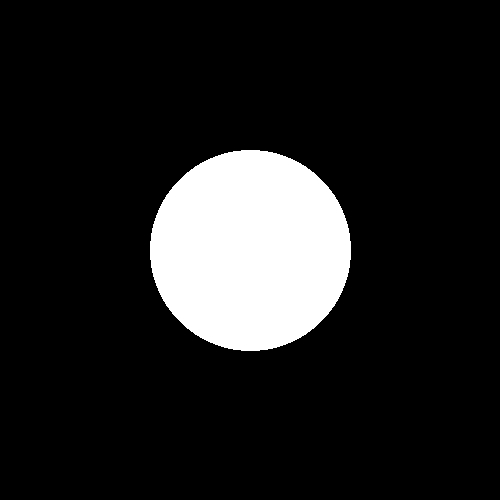
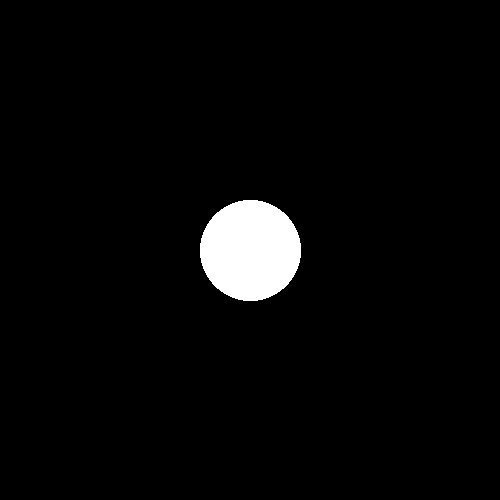
Implement menu_print and simulate functions in main

Changed region(s): [[0.3, 0.3, 0.72, 0.72]]

diff --git a/simulation.py b/simulation.py
@@ -1,32 +1,18 @@
-from PIL import (
-    Image,
-    ImageDraw
-)
+import numpy as np
 from objects import (
     OrbitalObject,
     CentralObject
 )
+from space import Space
 
-# to będzie symulacja
 
-
-class Space:
-    def __init__(self, size: int, central_object: CentralObject,
-                 orbital_objects: OrbitalObject = [], spaceName='unknown'):
-        self._size = size
-        self._central_object = central_object
-        self._orbital_objects = orbital_objects
-        self.spaceName = spaceName
-
-        newSpace = Image.new('RGB', (size, size), (0, 0, 0))
-        newSpace.save(f'{spaceName}.jpg')
-        with Image.open(f'{spaceName}.jpg') as space:
-            diameter = central_object.diameter()
-            position = (size / 2, size / 2)
-            draw = ImageDraw.Draw(space)
-            draw.circle(position, diameter, 'white')
-            space.save(f'{spaceName}.jpg', quality=100)
-            space.show()
-
-    def size(self):
-        return self._size
+class Simulation():
+    def __init__(self, space: Space, central_object: CentralObject,
+                 orbital_objects: OrbitalObject = []):
+        self.space = space
+        self.central_object = central_object
+        self.orbital_objects = orbital_objects
+        self.matrix = np.array(
+            [[False for column in range(50)] for row in range(50)],
+            dtype=bool
+        )

diff --git a/space.py b/space.py
@@ -1,0 +1,31 @@
+from PIL import (
+    Image,
+    ImageDraw
+)
+from objects import (
+    OrbitalObject,
+    CentralObject
+)
+
+
+class Space:
+    def __init__(self, size: int, central_object: CentralObject,
+                 orbital_objects: OrbitalObject = [], space_name='unknown'):
+        self._size = size
+        self._central_object = central_object
+        self._orbital_objects = orbital_objects
+        self.space_name = space_name
+
+        # do nowej metody
+        newSpace = Image.new('RGB', (size, size), (0, 0, 0))
+        newSpace.save(f'{space_name}.jpg')
+        with Image.open(f'{space_name}.jpg') as space:
+            radius = central_object.diameter() / 2
+            position = (size / 2, size / 2)
+            draw = ImageDraw.Draw(space)
+            draw.circle(position, radius, fill='white')
+            space.save(f'{space_name}.jpg', quality=100)
+            space.show()
+
+    def size(self):
+        return self._size

diff --git a/main.py b/main.py
@@ -7,13 +7,37 @@
 #     OrbitalObject,
 #     CentralObject
 # )
+import os
+
+
+def menu_print(width):
+    print('*' * width)
+    print('SYMULACJA RUCHU W POLU GRAWITACYJNYM'.center(width))
+    print('*' * width)
+    print('Opcje:')
+    print('1. Symulacja')
+    print('0. Zakończ')
+
+
+def simulate():
+    print('Obiekt Centralny')
+    print('Średnica:')
+    diameter = input('>> ')
+    print('Masa:')
+    mass = input('>> ')
 
 
 def main():
     width = 40
-    print('*' * width)
-    print('SYMULACJA RUCHU W POLU GRAWITACYJNYM'.center(width))
-    print('*' * width)
+    while True:
+        os.system('cls')
+        menu_print(width)
+        option = input('>> ')
+        if option == '1':
+            simulate()
+        elif option == '0':
+            print("Koniec")
+            return
 
 
 if __name__ == "__main__":

diff --git a/objects.py b/objects.py
@@ -16,7 +16,7 @@ class CentralObject(Object):
 
 
 class OrbitalObject(Object):
-    def __init__(self, mass, position, speedVector):
+    def __init__(self, mass, position, velocity):
         super().__init__(mass)
         self.positon = position
-        self.speedVector = speedVector
+        self.velocity = velocity

diff --git a/tests/test_space.py b/tests/test_space.py
@@ -1,4 +1,4 @@
-from simulation import Space
+from space import Space
 from objects import OrbitalObject, CentralObject
 
 
